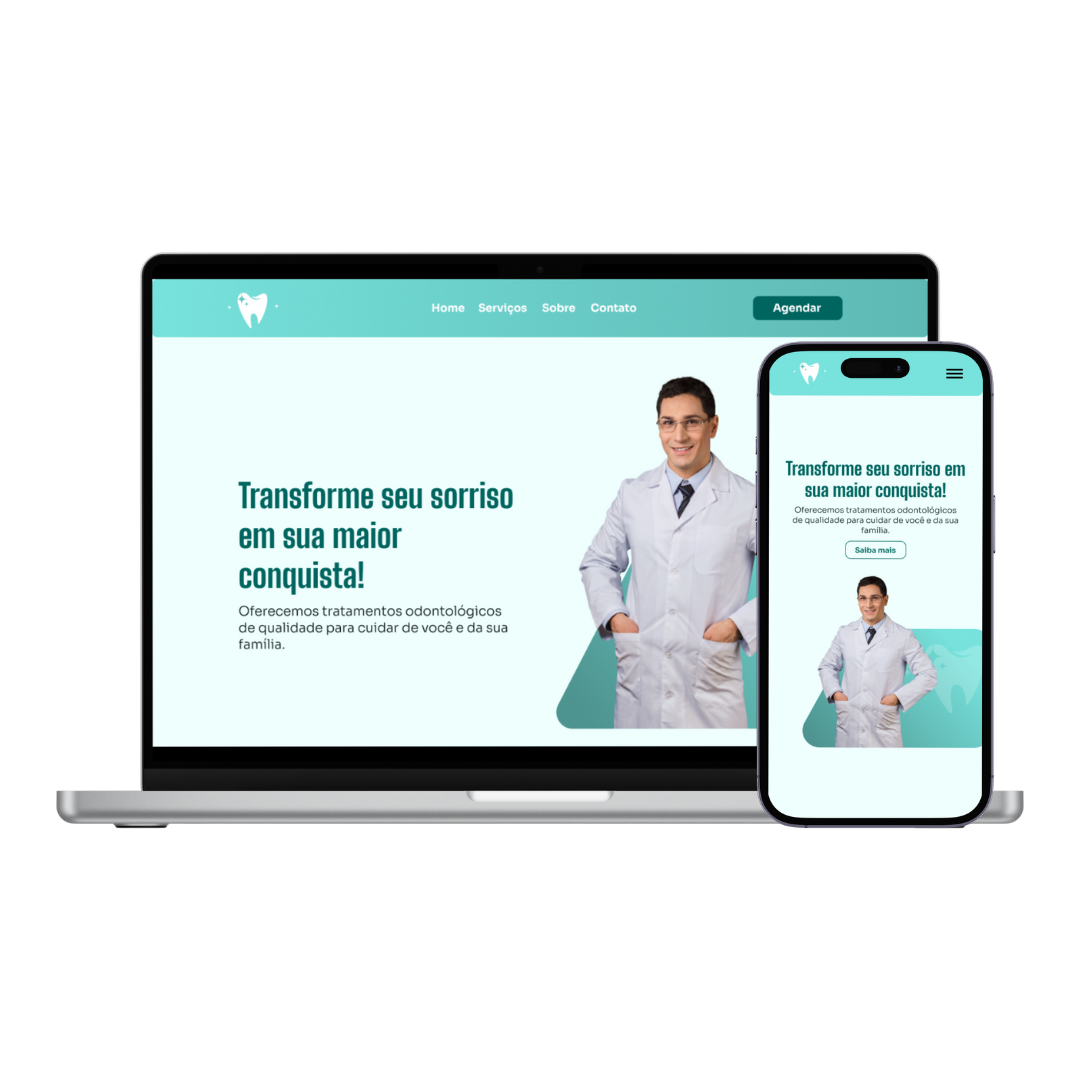
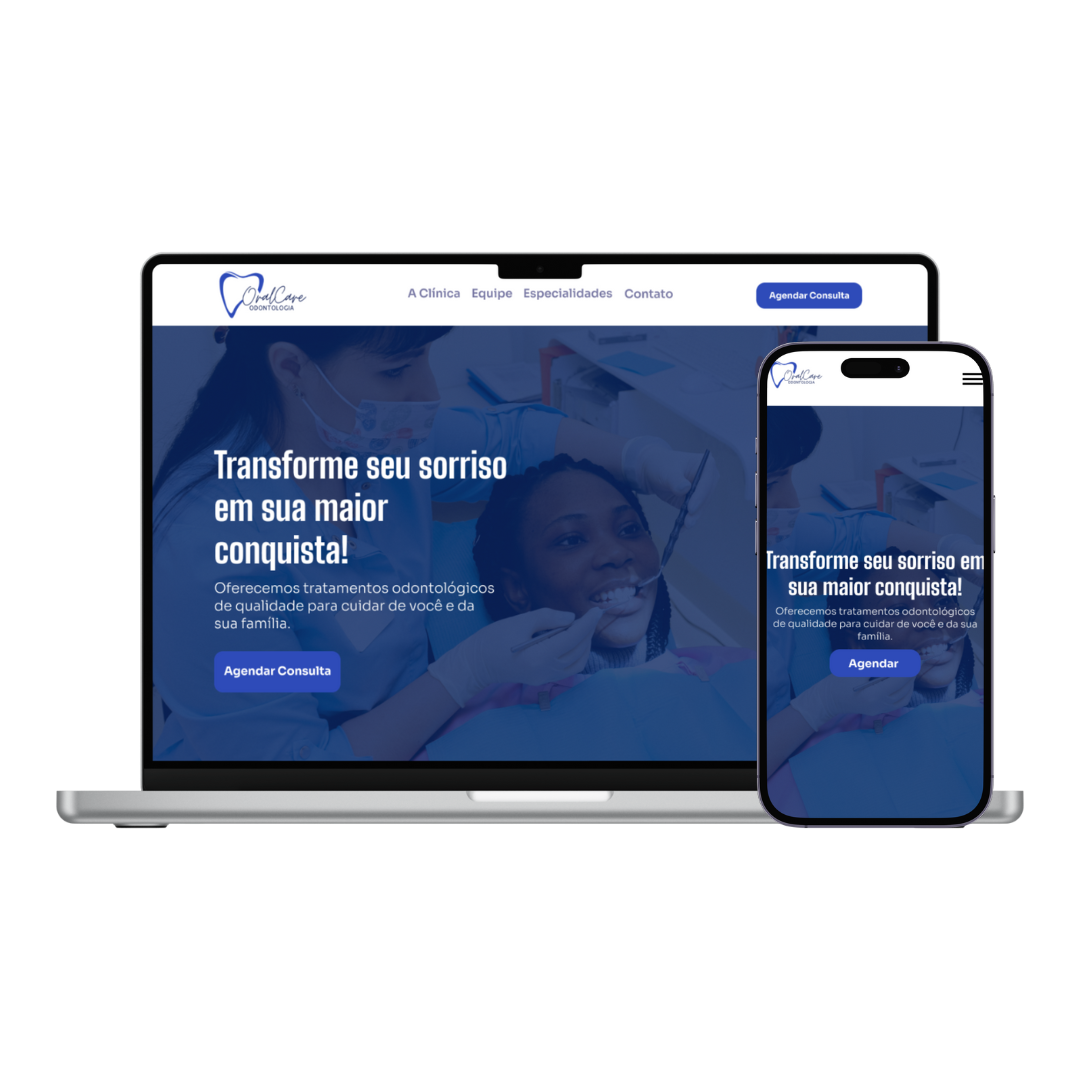
Adicionando o novo projeto

diff --git a/index.html b/index.html
@@ -49,7 +49,7 @@
     <!--SECTION HOME-->
     <section id="home" >
         <div class="container">
-            <div class="container-esq" data-aos="fade-right">
+            <div class="container-esq" data-aos="fade-right" data-aos-duration="1000">
                 <h3 class="text-secundario text-home">Olá!</h3>
                 <h2 class="text-secundario text-home">Me chamo <span class="text-orange">Antônio Pinheiro</span> </h2>
                 <h1 class="text-principal text-home-principal">Desenvolvedor Front-end</h1>
@@ -57,7 +57,7 @@
                 <a href="https://www.instagram.com/acpinheirox/" target="_blank"><ion-icon class="icon icon-2" name="logo-instagram"></ion-icon></a>
                 <a href="https://github.com/apinheirox" target="_blank"><ion-icon class="icon icon-3" name="logo-github"></ion-icon></a>
             </div>
-            <div class="container-dir" data-aos="fade-left">
+            <div class="container-dir" data-aos="fade-left" data-aos-duration="1000">
                 <img src="./images/ft-home.webp" alt="">
         </div>
         
@@ -66,10 +66,10 @@
     </section>
     <!--SECTION SOBRE-->
     <section id="sobre">
-        <div class="container-esq" data-aos="fade-up-right">
+        <div class="container-esq" data-aos="fade-up-right" data-aos-duration="1000">
             <img src="./images/ft-sobre.webp" alt="Foto Antônio Pinheiro">
         </div>
-        <div class="container-dir container-text" data-aos="fade-up-left">
+        <div class="container-dir container-text" data-aos="fade-up-left" data-aos-duration="1000">
             <h2 class="text-secundario"><span class=" text-orange">SOBRE</span> MIM</h2>
             <h1 class="text-principal">Quem sou eu</h1>
             <p class="text-secundario">Olá! Sou Antônio Pinheiro, um entusiasta da tecnologia apaixonado por criar experiências incríveis na web. Desde que me interessei pelo front-end, tenho trabalhado incansavelmente para aprimorar minhas habilidades e mergulhar fundo no vasto mundo do desenvolvimento web.</p>
@@ -79,9 +79,9 @@
         </div>
     </section>
     <section class="skills-section" id="skills">
-        <h2 class="text-secundario text-orange" data-aos="flip-up">SKILLS</h2>
-        <h1 class="text-principal" data-aos="flip-up">Habilidades</h1>
-        <div class="skills-grid text-secundario" data-aos="zoom-in">
+        <h2 class="text-secundario text-orange" data-aos="flip-up" data-aos-duration="1000">SKILLS</h2>
+        <h1 class="text-principal" data-aos="flip-up" data-aos-duration="1000">Habilidades</h1>
+        <div class="skills-grid text-secundario" data-aos="zoom-in" data-aos-duration="1000">
             <div class="skill-category" >
                 <div class="icone">
                 <img src="./images/skills-1.gif" alt="" width="70px">
@@ -127,7 +127,7 @@
     </section>
     <!--SECTION SERVIÇOS-->
     <section id="servicos">
-        <div data-aos="flip-up">
+        <div data-aos="flip-up" data-aos-duration="1000">
         <h2 class="text-secundario text-orange text-serv">SERVIÇOS</h2>
         <h1 class="text-principal">O Que Eu Faço</h1>
         <p class="text-secundario">Minha principal responsabilidade é criar a interface de usuário de um site ou aplicativo, garantindo que seja visualmente atraente, responsivo e fácil de usar em uma variedade de dispositivos e navegadores.</p>
@@ -143,7 +143,7 @@
             <img src="./images/woodev-linguagens/8.webp" alt="Wordpress" width="80px">
             <img src="./images/woodev-linguagens/9.webp" alt="SQL" width="80px">
         </div>
-        <div class="servicos-img" data-aos="zoom-in">
+        <div class="servicos-img" data-aos="zoom-in" data-aos-duration="1000">
             <div class="backg">
                 <img src="./images/servicos-1.gif" alt="Tela de um computador" width="70px" class="img-serv">
                 <h2 class="text-principal text-serv">Websites</h2>
@@ -164,37 +164,37 @@
     </section>
 
     <section id="portfolio">
-        <div class="container-esq port-esq" data-aos="fade-up-right">
+        <div class="container-esq port-esq" data-aos="fade-up-right" data-aos-duration="1000">
             <h2 class="text-secundario text-orange">PORTFÓLIO</h2>
             <h1 class="text-principal">Projetos Recentes</h1>
         </div>
         <div class="portfolio">
-            <div class="container-esq-port" data-aos="fade-right">
+            <div class="container-esq-port" data-aos="fade-right" data-aos-duration="1000">
                 <img src="./images/projeto-1.webp" alt="Site Dentist Clinic">
             </div>
-            <div class="container-dir-port" data-aos="fade-left">
+            <div class="container-dir-port" data-aos="fade-left" data-aos-duration="1000">
                 <h2 class="text-secundario text-orange">DESENVOLVIMENTO PERSONALIZADO</h2>
-                <h1 class="text-principal">Dentist Clinic</h1>
+                <h1 class="text-principal">OralCare</h1>
                 <p class="text-secundario">Desenvolvido para ser mais do que um simples site e oferecer uma experiência única, ele é uma landing page abrangente que ilumina o universo odontológico.</p>
-                <a href="https://apinheirox.github.io/projeto-dentist/" target="_blank"><button class="text-secundario">Ver o Site</button></a>
+                <a href="https://apinheirox.github.io/projeto-oralcare/" target="_blank"><button class="text-secundario">Ver o Site</button></a>
             </div>
         </div>
         <div class="portfolio2">
-            <div class="container-esq-port" data-aos="fade-right">
+            <div class="container-esq-port" data-aos="fade-right" data-aos-duration="1000">
                 <h2 class="text-secundario text-orange">DESENVOLVIMENTO PERSONALIZADO</h2>
                 <h1 class="text-principal">Denise Matos</h1>
                 <p class="text-secundario">Desenvolvido para ser mais do que apenas uma landing page, Ele é um portal completo que reúne os serviços da profissional, parcerias feitas, recomendações, tudo em um único ambiente.</p>
                 <a href="https://apinheirox.github.io/denise-matos/" target="_blank"><button class="text-secundario" >Ver o Site</button></a>
             </div>
-            <div class="container-dir-port" data-aos="fade-left">
+            <div class="container-dir-port" data-aos="fade-left" data-aos-duration="1000">
                 <img src="./images/projeto-2.webp" alt="Site Denise Matos">
             </div>
         </div>
         <div class="portfolio">
-            <div class="container-esq-port" data-aos="fade-right">
+            <div class="container-esq-port" data-aos="fade-right" data-aos-duration="1000">
                 <img src="./images/projeto-3.webp" alt="Site SNETO">
             </div>
-            <div class="container-dir-port" data-aos="fade-left">
+            <div class="container-dir-port" data-aos="fade-left" data-aos-duration="1000">
                 <h2 class="text-secundario text-orange">DESENVOLVIMENTO PERSONALIZADO</h2>
                 <h1 class="text-principal">Sneto</h1>
                 <p class="text-secundario">Desenvolvido como um site institucional, ele é um portal que destrava o mundo da comunicação visual, trazendo simplicidade e profissionalismo em seus serviços.</p>
@@ -205,11 +205,11 @@
 
     <section id="contato">
         <div class="container">
-            <div class="container-esq" data-aos="zoom-in-up">
+            <div class="container-esq" data-aos="zoom-in-up" data-aos-duration="1000">
                 <h2 class="text-secundario text-orange">CONTATO</h2>
                 <h1 class="text-principal">Entre em contato</h1>
             </div>
-            <div class="container-dir" data-aos="zoom-in">
+            <div class="container-dir" data-aos="zoom-in" data-aos-duration="1000">
                 <form class="form" id="contactForm" method="POST">
                     <p class="text-secundario heading">FALE COMIGO</p>
                     <input placeholder="Nome" class="input" name="nome" id="nome" type="text" required>
@@ -220,7 +220,7 @@
                 </form>
             </div>
         </div>
-        <div class="simbolo" data-aos="fade-up-right">
+        <div class="simbolo" data-aos="fade-up-right" data-aos-duration="1000">
             <img src="./images/Simbolo.webp" alt="Simbolo da Woodev.tec" width="600px">
             </div>
     </section>

diff --git a/src/styles/main.css b/src/styles/main.css
@@ -223,29 +223,28 @@ button:hover {
         transform: translateY(-8px) rotate(-45deg);
     }
 
-    /* Esconde a lista de navegação por padrão em telas menores */
+    
     nav ul {
         display: none;
     }
 
-    /* Mostra a lista de navegação quando o menu hamburguer está ativo */
     nav ul.active {
         display: flex;
-        flex-direction: column; /* Alinha os itens verticalmente */
-        background-color: #ffffff; /* Define o fundo da lista */
-        position: absolute; /* Posiciona a lista sobre o conteúdo */
-        top: 100px; /* Distância do topo */
-        left: 0; /* Alinha à esquerda */
-        width: 100%; /* Largura total */
-        padding: 20px; /* Adiciona espaçamento */
-        box-shadow: 0 2px 4px rgba(0, 0, 0, 0.1); /* Adiciona uma sombra sutil */
+        flex-direction: column;
+        background-color: #ffffff;
+        position: absolute;
+        top: 100px;
+        left: 0;
+        width: 100%;
+        padding: 20px;
+        box-shadow: 0 2px 4px rgba(0, 0, 0, 0.1);
     }
     nav button{
         display: none;
     }
-    /* Estilos para os itens do menu */
+
     nav ul li {
-        margin-bottom: 10px; /* Espaçamento entre os itens */
+        margin-bottom: 10px;
     }
     header img{
         margin-left: -60px;
@@ -254,13 +253,13 @@ button:hover {
     }
 }
 
-/* Media queries para responsividade */
+
 @media only screen and (max-width: 768px) {
     .container {
-        flex-direction: column; /* Altera a direção do contêiner para coluna */
+        flex-direction: column; 
         align-items: center;
         margin-bottom: -300px;
-        text-align: center; /* Centraliza itens verticalmente */
+        text-align: center;
     }
 
     .container-esq {
@@ -270,10 +269,10 @@ button:hover {
     }
 
     .container-dir img {
-        order: -1; /* Move a imagem para o topo */
+        order: -1;
         margin-top: 20px;
-        width: 400px; /* Ajusta o tamanho da imagem */
-        max-width: 300px; /* Define um tamanho máximo para a imagem */
+        width: 400px;
+        max-width: 300px;
     }
     .text-home{
         font-size: 25px;
@@ -290,7 +289,7 @@ button:hover {
     .icon {
         text-align: center;
         justify-content: center;
-        align-items: center; /* Centraliza o texto e o ícone */
+        align-items: center;
     }
     .icon{
         font-size: 30px;

diff --git a/src/styles/sobre.css b/src/styles/sobre.css
@@ -1,22 +1,22 @@
-/* Estilos para a seção #sobre */
+
 #sobre {
     display: flex;
-    flex-direction: row; /* Mantém o layout em linha */
+    flex-direction: row;
     align-items: center;
-    padding: 20px; /* Ajuste de espaçamento */
+    padding: 20px;
     margin: 0 auto;
     max-height: 700px;
     max-width: 1200px;
 }
 .scroll-animation {
     opacity: 0;
-    transform: translateX(-50px); /* Mova a seção para a esquerda */
+    transform: translateX(-50px);
     transition: opacity 2s ease, transform 2s ease;
 }
 
 .scroll-animation.active {
     opacity: 1;
-    transform: translateX(0); /* Retorne a seção à sua posição original */
+    transform: translateX(0);
 }
 #sobre h2 {
     font-size: 20px;
@@ -32,22 +32,22 @@
 
 #sobre p {
     font-size: 14px;
-    max-width: 500px; /* Largura máxima para o texto */
+    max-width: 500px;
     text-align: left;
-    margin-bottom: 5px; /* Alinhado à esquerda */
+    margin-bottom: 5px;
 }
 
 #sobre .container-esq img {
     max-width: 100%;
     height: auto;
     margin: 0px auto; 
-    width: 500px; /* Largura da imagem */
+    width: 500px;
 }
 
 #sobre .container-dir {
     flex: 1;
     text-align: left;
-    padding-left: 20px; /* Ajuste de espaçamento */
+    padding-left: 20px;
 }
 
 
@@ -68,17 +68,17 @@
     transition: 1.0s ease all;
 }
 
-/* Media queries para dispositivos móveis */
+
 @media only screen and (max-width: 768px) {
     #sobre {
-        flex-direction: column; /* Altera para coluna em dispositivos móveis */
+        flex-direction: column; 
     }
     
     #sobre .container-dir {
-        order: -1; /* Muda a ordem do container-dir */
-        padding-left: 0; /* Remove o padding à esquerda */
+        order: -1;
+        padding-left: 0;
         text-align: center;
-        margin-top: 40px; /* Centraliza o texto */
+        margin-top: 40px;
     }
 
     #sobre .container-dir h2,
@@ -87,7 +87,7 @@
     #sobre .container-dir .button-sobre {
         text-align: center;
         justify-content: center;
-        align-items: center; /* Centraliza o texto dentro do container-dir */
+        align-items: center;
     }
     #sobre p{
         font-size: 15px;

diff --git a/src/main.js b/src/main.js
@@ -30,7 +30,7 @@ window.addEventListener("load", function() {
         var content = document.getElementById("content");
         content.style.opacity = 1;
         content.style.pointerEvents = "auto";
-    }, 5000);
+    }, 3000);
 });
 function enviarParaWhatsApp() {
     var nome = document.getElementById("nome").value;

diff --git a/src/styles/servicos.css b/src/styles/servicos.css
@@ -16,7 +16,7 @@
 
 .scroll-animation2.active {
     opacity: 1;
-    transform: translateX(0); /* Retorna a section à sua posição original */
+    transform: translateX(0);
 }
 #servicos h2 {
     font-size: 20px;
